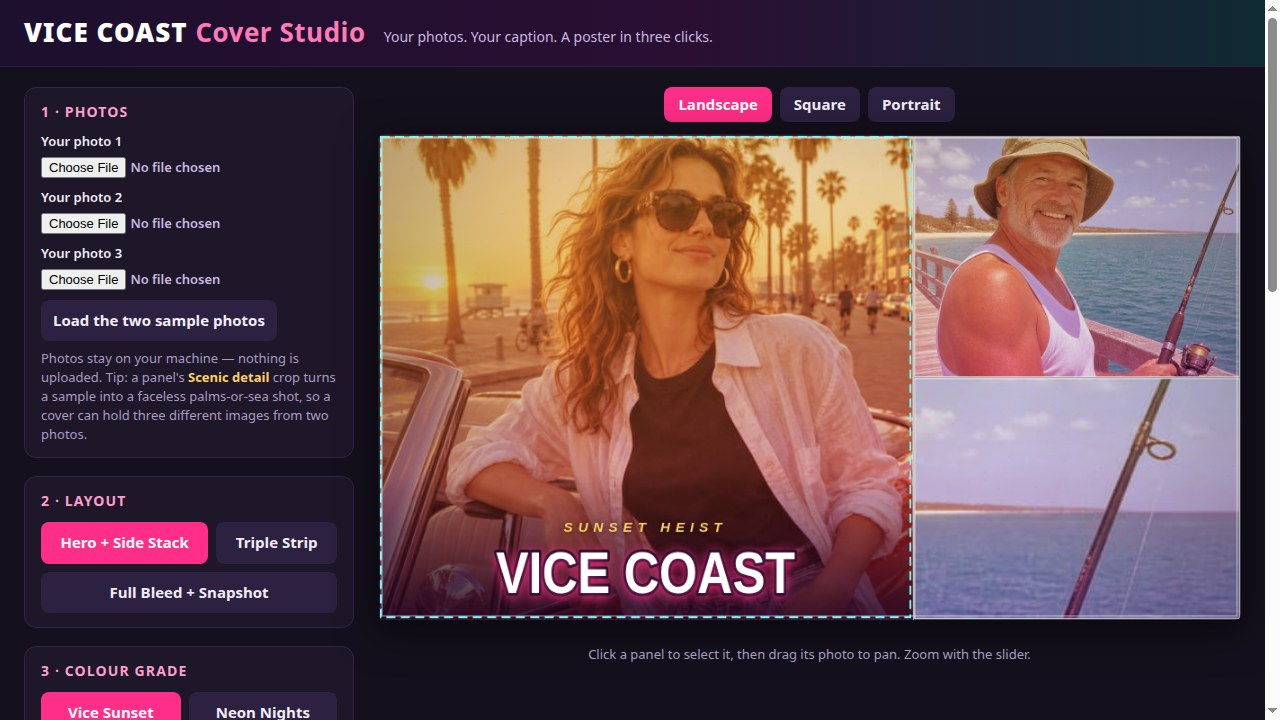
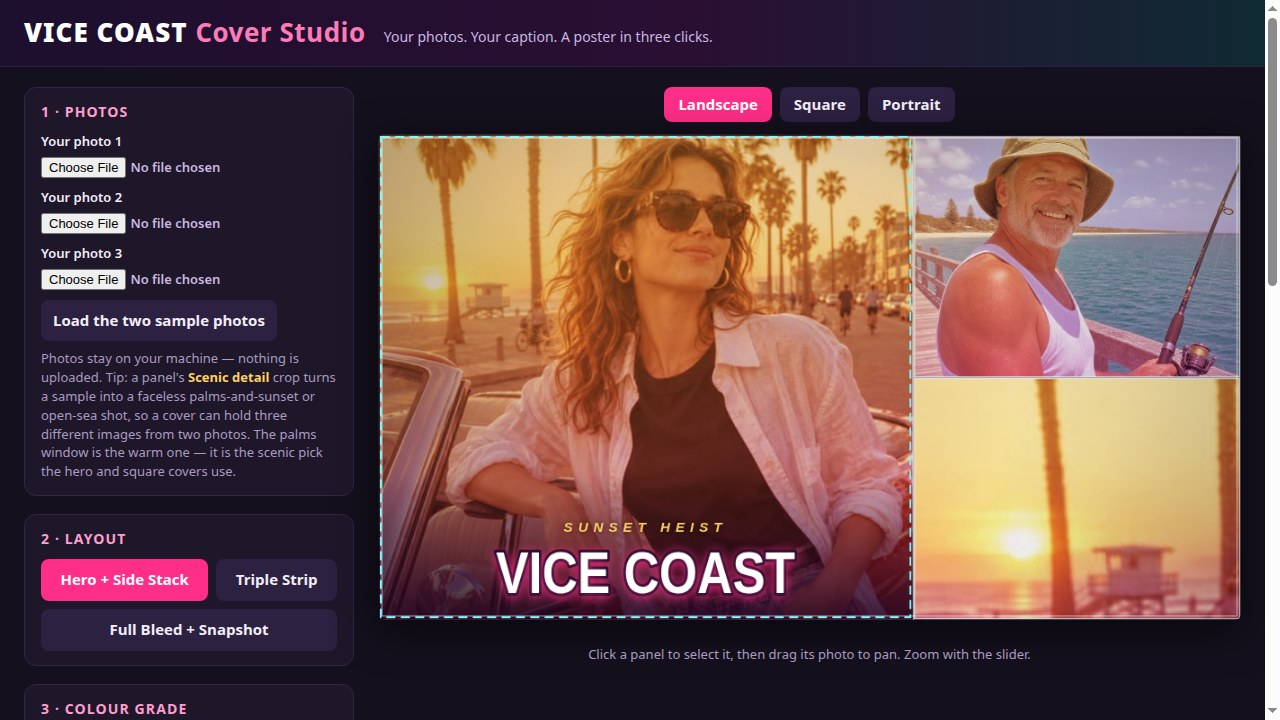
v3: palms scenic window everywhere (sun+tower survive cover-fit), named crop labels, min-3-screenshots pre-flight

Changed region(s): [[0.6875, 0.5194, 0.9688, 0.8861], [0.0312, 0.55, 0.2812, 1.0]]

diff --git a/app/src/shots.js b/app/src/shots.js
@@ -8,6 +8,11 @@
 // faceless scenic detail (palms and sunset from the boulevard photo, or open
 // sea and rod from the pier photo), so each of the three panels reads as a
 // different image.
+//
+// v3: the scenic third panel is the palms window everywhere. The open-sea
+// window reads as mostly empty sky in a small landscape panel, and its cool
+// blue grade fights the warm sunset of the panels beside it — the palms
+// window is warm sunset content, so the cover stays one poster.
 
 /** Applies a scene's state to the editor and paints it once. */
 function paintScene(editor, { layout, grade, title, subtitle, panels, aspect, w, h }) {
@@ -40,7 +45,7 @@ export async function runShot(shot, query, editor) {
       panels: [
         { photo: 0, zoom: 1.0, ox: 0, oy: 0.12 },
         { photo: 1, zoom: 1.1, ox: 0, oy: 0.15 },
-        { photo: 1, crop: 'scenic', zoom: 1.0, ox: 0, oy: 0 },
+        { photo: 0, crop: 'scenic', zoom: 1.0, ox: 0, oy: 0 },
       ],
       w: 1280,
       h: 720,
@@ -55,7 +60,7 @@ export async function runShot(shot, query, editor) {
       panels: [
         { photo: 0, zoom: 1.1, ox: 0, oy: 0.06 },
         { photo: 1, zoom: 1.15, ox: 0, oy: 0.12 },
-        { photo: 1, crop: 'scenic', zoom: 1.0, ox: 0, oy: 0 },
+        { photo: 0, crop: 'scenic', zoom: 1.0, ox: 0, oy: 0 },
       ],
       w: 1024,
       h: 1024,
@@ -83,7 +88,7 @@ export async function runShot(shot, query, editor) {
     editor.state.panels = [
       { photo: 0, zoom: 1.0, ox: 0, oy: 0.12 },
       { photo: 1, zoom: 1.1, ox: 0, oy: 0.15 },
-      { photo: 1, crop: 'scenic', zoom: 1.0, ox: 0, oy: 0 },
+      { photo: 0, crop: 'scenic', zoom: 1.0, ox: 0, oy: 0 },
     ];
     editor.selected = 0;
     editor.setAspect('landscape');

diff --git a/app/src/cover.js b/app/src/cover.js
@@ -12,6 +12,11 @@
 // ever repeats the same face; the caption block is anchored inside the hero
 // panel so the title never straddles a panel gutter; and the grade wash is
 // stronger so every panel in one cover reads as the same warm sunset.
+//
+// v3: the palms window is the default scenic pick — it is warm sunset
+// content, so it keeps a cover tonally one poster where the open-sea
+// window read as empty cool sky. SCENIC_LABELS names each window for the
+// editor's crop picker.
 
 export const GRADE_PRESETS = {
   'vice-sunset': {
@@ -60,11 +65,19 @@ export const LAYOUT_PRESETS = {
  * window and always show the full frame.
  */
 export const SCENIC_CROPS = {
-  // Landscape-shaped band: palms, sunset and lifeguard tower. A tall
-  // window cover-fits into a landscape panel by showing only its middle
-  // band — mostly empty sky — so the window is kept wide and short.
-  0: { sx: 0, sy: 0.10, sw: 0.26, sh: 0.22 },
+  // Palms, sunset and lifeguard tower. The window must be tall enough
+  // that the sun and tower survive the cover-fit's middle-band slice in
+  // a landscape panel (v2's shorter window showed only empty sky and one
+  // trunk), and narrow enough to stay clear of the woman's hair and arm.
+  // v3: widened and deepened 0.26x0.22 -> 0.30x0.30 after crop simulation.
+  0: { sx: 0, sy: 0.10, sw: 0.30, sh: 0.30 },
   1: { sx: 0.68, sy: 0.02, sw: 0.32, sh: 0.60 },
+};
+
+/** Human names for the scenic windows, shown in the editor's crop picker. */
+export const SCENIC_LABELS = {
+  0: 'Palms & sunset',
+  1: 'Open sea & rod',
 };
 
 /** The source window a panel draws: the whole frame, or its scenic detail. */

diff --git a/app/src/main.js b/app/src/main.js
@@ -4,7 +4,7 @@
 // scene for a screenshot instead (./shots.js).
 
 import { CoverEditor, SAMPLE_PHOTOS, EXPORT_SIZES } from './editor.js';
-import { GRADE_PRESETS, LAYOUT_PRESETS } from './cover.js';
+import { GRADE_PRESETS, LAYOUT_PRESETS, SCENIC_LABELS } from './cover.js';
 import { runShot } from './shots.js';
 
 const canvas = document.getElementById('cover');
@@ -75,7 +75,11 @@ function renderPanelControls() {
   cropLabel.textContent = 'Crop';
   const crop = document.createElement('select');
   crop.setAttribute('aria-label', 'Crop for the selected panel');
-  for (const [value, text] of [['full', 'Full photo'], ['scenic', 'Scenic detail']]) {
+  // The scenic option names the window it shows, so the picker says which
+  // faceless detail the panel gets (palms for the boulevard sample, open
+  // sea for the pier sample).
+  const scenicLabel = `Scenic detail — ${SCENIC_LABELS[panel.photo] || 'detail'}`;
+  for (const [value, text] of [['full', 'Full photo'], ['scenic', scenicLabel]]) {
     const option = document.createElement('option');
     option.value = value;
     option.textContent = text;

diff --git a/app/style.css b/app/style.css
@@ -16,6 +16,7 @@ html, body { margin: 0; min-height: 100%; background: #14101d; color: #f2eef8; f
 label { display: flex; flex-direction: column; gap: 6px; font-weight: 600; font-size: 13px; margin-bottom: 10px; }
 label.check { flex-direction: row; align-items: center; gap: 8px; margin: 0; }
 input[type=text], select { font: inherit; padding: 9px 10px; border: 1px solid #4a3a66; border-radius: 8px; background: #120b1c; color: #f2eef8; }
+input[type=text]:focus-visible, select:focus-visible, button:focus-visible { outline: 2px solid #ff2e88; outline-offset: 1px; }
 input[type=file] { font: inherit; color: #c9b8e0; }
 input[type=range] { width: 100%; accent-color: #ff2e88; }
 input[type=color] { width: 56px; height: 34px; padding: 2px; border: 1px solid #4a3a66; border-radius: 8px; background: #120b1c; cursor: pointer; }

diff --git a/main.ts b/main.ts
@@ -21,11 +21,13 @@ const out = process.env.MAKEFUN_OUTPUT_DIR ?? '/output';
 
 // Pre-flight: the scorer refuses an entry whose app is missing its entry
 // point or whose screenshots break the caps, so fail loudly here instead.
+// v3: fewer than 3 screenshots is refused too — the bounty asks for 3–4.
 if (!existsSync(join(here, 'app', 'index.html'))) {
   throw new Error('app/index.html is missing — the app cannot enter');
 }
 if (existsSync(join(here, 'screenshots'))) {
   const shots = readdirSync(join(here, 'screenshots'));
+  if (shots.length < 3) throw new Error(`too few screenshots: ${shots.length} (need 3-4)`);
   if (shots.length > 4) throw new Error(`too many screenshots: ${shots.length} (max 4)`);
   for (const shot of shots) {
     const bytes = statSync(join(here, 'screenshots', shot)).size;

diff --git a/app/index.html b/app/index.html
@@ -18,8 +18,10 @@
       <div id="photo-slots"></div>
       <button id="load-samples" type="button">Load the two sample photos</button>
       <p class="hint">Photos stay on your machine — nothing is uploaded. Tip: a panel's
-        <b>Scenic detail</b> crop turns a sample into a faceless palms-or-sea
-        shot, so a cover can hold three different images from two photos.</p>
+        <b>Scenic detail</b> crop turns a sample into a faceless palms-and-sunset
+        or open-sea shot, so a cover can hold three different images from two
+        photos. The palms window is the warm one — it is the scenic pick the
+        hero and square covers use.</p>
     </div>
 
     <div class="group">

diff --git a/app/src/editor.js b/app/src/editor.js
@@ -148,7 +148,15 @@ export class CoverEditor {
 
   /** 'full' shows the whole frame; 'scenic' shows the photo's faceless detail window. */
   setPanelCrop(index, crop) {
-    this.state.panels[index].crop = crop === 'scenic' ? 'scenic' : 'full';
+    const panel = this.state.panels[index];
+    panel.crop = crop === 'scenic' ? 'scenic' : 'full';
+    if (panel.crop === 'scenic') {
+      // The scenic window is framed as designed at zoom 1 with no pan — a
+      // zoomed or panned slice could wander onto a face it must never show.
+      panel.zoom = 1;
+      panel.ox = 0;
+      panel.oy = 0;
+    }
     this.repaint();
     this.emit();
   }

diff --git a/README.md b/README.md
@@ -19,7 +19,9 @@ the apps two at a time, places go by win rate, and the 50 best share $250.
   slider. Pan is clamped so the photo always covers its panel. A panel's
   **Scenic detail** crop shows a faceless palms-and-sunset or open-sea
   window of a sample, so a cover can hold three different images from
-  two photos — no face is ever repeated.
+  two photos — no face is ever repeated. The palms window is the default
+  scenic pick: it is warm sunset content, while the open-sea window reads
+  as mostly empty cool sky in a small landscape panel.
 - **Three layouts** — Hero + Side Stack, Triple Strip, and Full Bleed +
   Snapshot (a tilted polaroid-style inset).
 - **Three colour grades** — Vice Sunset, Neon Nights, Palm Dusk: a warm
